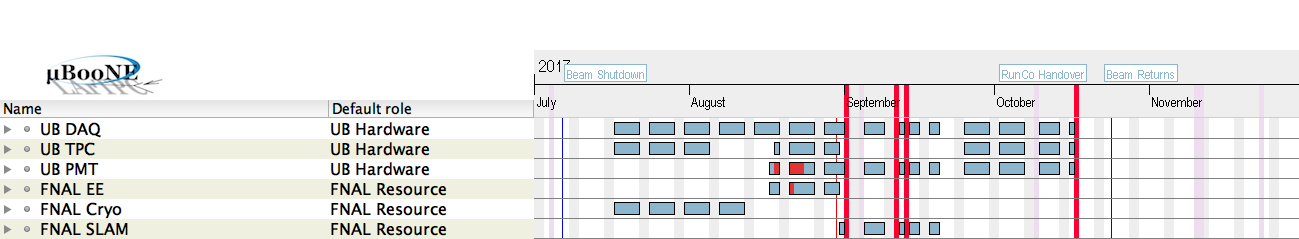
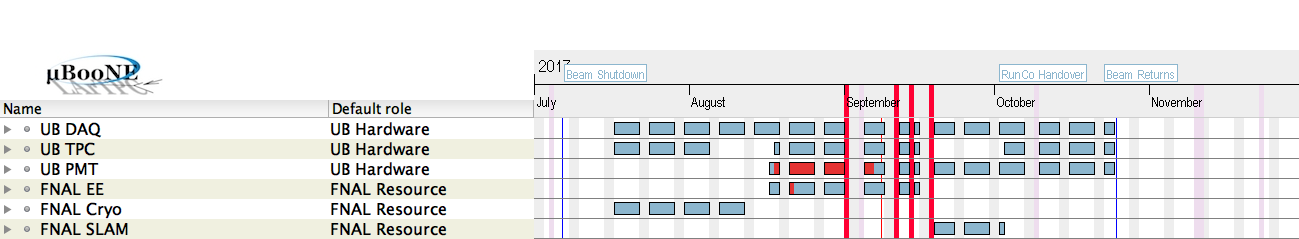
Update

Changed region(s): [[0.6159, 0.3515, 0.8622, 0.9958]]

diff --git a/index-tasks.html b/index-tasks.html
@@ -387,7 +387,7 @@ h5.header {
 </div>
 </td><td valign="top" class="cell">
 <div style="margin:0; padding:0; padding-left:0.5em">
-<div style="margin: 0; padding: 0;">8/23/17</div>
+<div style="margin: 0; padding: 0;">9/6/17</div>
 </div>
 </td><td valign="top" class="cell">UB PMT</td>
 </tr>
@@ -447,7 +447,22 @@ h5.header {
 </div>
 </td><td valign="top" class="cell">
 <div style="margin:0; padding:0; padding-left:0.5em">
-<div style="margin: 0; padding: 0;">8/23/17</div>
+<div style="margin: 0; padding: 0;">9/6/17</div>
+</div>
+</td><td valign="top" class="cell"></td>
+</tr>
+<tr>
+<td valign="top" class="cell">
+<div style="margin:0; padding:0; padding-left:0em">
+<div style="margin: 0; padding: 0;">Laser Maintanence</div>
+</div>
+</td><td valign="top" class="cell">
+<div style="margin:0; padding:0; padding-left:0.5em">
+<div style="margin: 0; padding: 0;">9/12/17</div>
+</div>
+</td><td valign="top" class="cell">
+<div style="margin:0; padding:0; padding-left:0.5em">
+<div style="margin: 0; padding: 0;">9/15/17</div>
 </div>
 </td><td valign="top" class="cell"></td>
 </tr>
@@ -462,7 +477,7 @@ h5.header {
 </div>
 </td><td valign="top" class="cell">
 <div style="margin:0; padding:0; padding-left:0.5em">
-<div style="margin: 0; padding: 0;">8/30/17</div>
+<div style="margin: 0; padding: 0;">9/15/17</div>
 </div>
 </td><td valign="top" class="cell">UB DAQ, UB TPC, UB PMT, FNAL EE</td>
 </tr>
@@ -488,11 +503,11 @@ h5.header {
 </div>
 </td><td valign="top" class="cell">
 <div style="margin:0; padding:0; padding-left:0.5em">
-<div style="margin: 0; padding: 0;">8/24/17</div>
+<div style="margin: 0; padding: 0;">9/7/17</div>
 </div>
 </td><td valign="top" class="cell">
 <div style="margin:0; padding:0; padding-left:0.5em">
-<div style="margin: 0; padding: 0;">8/30/17</div>
+<div style="margin: 0; padding: 0;">9/15/17</div>
 </div>
 </td><td valign="top" class="cell"></td>
 </tr>
@@ -503,11 +518,11 @@ h5.header {
 </div>
 </td><td valign="top" class="cell">
 <div style="margin:0; padding:0; padding-left:0.5em">
-<div style="margin: 0; padding: 0;">8/31/17</div>
+<div style="margin: 0; padding: 0;">9/19/17</div>
 </div>
 </td><td valign="top" class="cell">
 <div style="margin:0; padding:0; padding-left:0.5em">
-<div style="margin: 0; padding: 0;">9/19/17</div>
+<div style="margin: 0; padding: 0;">10/2/17</div>
 </div>
 </td><td valign="top" class="cell">UB PMT</td>
 </tr>
@@ -518,11 +533,11 @@ h5.header {
 </div>
 </td><td valign="top" class="cell">
 <div style="margin:0; padding:0; padding-left:0.5em">
-<div style="margin: 0; padding: 0;">8/31/17</div>
+<div style="margin: 0; padding: 0;">9/19/17</div>
 </div>
 </td><td valign="top" class="cell">
 <div style="margin:0; padding:0; padding-left:0.5em">
-<div style="margin: 0; padding: 0;">8/31/17</div>
+<div style="margin: 0; padding: 0;">9/19/17</div>
 </div>
 </td><td valign="top" class="cell"></td>
 </tr>
@@ -533,11 +548,11 @@ h5.header {
 </div>
 </td><td valign="top" class="cell">
 <div style="margin:0; padding:0; padding-left:0.5em">
-<div style="margin: 0; padding: 0;">9/5/17</div>
+<div style="margin: 0; padding: 0;">9/20/17</div>
 </div>
 </td><td valign="top" class="cell">
 <div style="margin:0; padding:0; padding-left:0.5em">
-<div style="margin: 0; padding: 0;">9/18/17</div>
+<div style="margin: 0; padding: 0;">9/29/17</div>
 </div>
 </td><td valign="top" class="cell"></td>
 </tr>
@@ -548,11 +563,11 @@ h5.header {
 </div>
 </td><td valign="top" class="cell">
 <div style="margin:0; padding:0; padding-left:0.5em">
-<div style="margin: 0; padding: 0;">9/19/17</div>
+<div style="margin: 0; padding: 0;">10/2/17</div>
 </div>
 </td><td valign="top" class="cell">
 <div style="margin:0; padding:0; padding-left:0.5em">
-<div style="margin: 0; padding: 0;">9/19/17</div>
+<div style="margin: 0; padding: 0;">10/2/17</div>
 </div>
 </td><td valign="top" class="cell"></td>
 </tr>
@@ -563,11 +578,11 @@ h5.header {
 </div>
 </td><td valign="top" class="cell">
 <div style="margin:0; padding:0; padding-left:0.5em">
-<div style="margin: 0; padding: 0;">8/31/17</div>
+<div style="margin: 0; padding: 0;">9/19/17</div>
 </div>
 </td><td valign="top" class="cell">
 <div style="margin:0; padding:0; padding-left:0.5em">
-<div style="margin: 0; padding: 0;">9/19/17</div>
+<div style="margin: 0; padding: 0;">10/2/17</div>
 </div>
 </td><td valign="top" class="cell">UB DAQ, FNAL SLAM</td>
 </tr>
@@ -578,11 +593,11 @@ h5.header {
 </div>
 </td><td valign="top" class="cell">
 <div style="margin:0; padding:0; padding-left:0.5em">
-<div style="margin: 0; padding: 0;">9/25/17</div>
+<div style="margin: 0; padding: 0;">10/3/17</div>
 </div>
 </td><td valign="top" class="cell">
 <div style="margin:0; padding:0; padding-left:0.5em">
-<div style="margin: 0; padding: 0;">10/16/17</div>
+<div style="margin: 0; padding: 0;">10/24/17</div>
 </div>
 </td><td valign="top" class="cell">UB DAQ, UB TPC, UB PMT</td>
 </tr>
@@ -653,7 +668,7 @@ h5.header {
 <tr>
 <td bgcolor="#6d9ec6" width="50%"><font color="#FFFFFF"><b>Ganttproject (2.8.5 Pilsen (build 2179))</b></font></td><td bgcolor="#6d9ec6" width="50%" align="right"><b><a href="http://ganttproject.biz">ganttproject.biz</a></b>
 <br>
-<b>8/30/17 - 3:18:00 PM</b></td>
+<b>9/8/17 - 10:59:12 AM</b></td>
 </tr>
 </table>
 </body>

diff --git a/microboone_summer17-tasks.html b/microboone_summer17-tasks.html
@@ -387,7 +387,7 @@ h5.header {
 </div>
 </td><td valign="top" class="cell">
 <div style="margin:0; padding:0; padding-left:0.5em">
-<div style="margin: 0; padding: 0;">8/23/17</div>
+<div style="margin: 0; padding: 0;">9/6/17</div>
 </div>
 </td><td valign="top" class="cell">UB PMT</td>
 </tr>
@@ -447,7 +447,22 @@ h5.header {
 </div>
 </td><td valign="top" class="cell">
 <div style="margin:0; padding:0; padding-left:0.5em">
-<div style="margin: 0; padding: 0;">8/23/17</div>
+<div style="margin: 0; padding: 0;">9/6/17</div>
+</div>
+</td><td valign="top" class="cell"></td>
+</tr>
+<tr>
+<td valign="top" class="cell">
+<div style="margin:0; padding:0; padding-left:0em">
+<div style="margin: 0; padding: 0;">Laser Maintanence</div>
+</div>
+</td><td valign="top" class="cell">
+<div style="margin:0; padding:0; padding-left:0.5em">
+<div style="margin: 0; padding: 0;">9/12/17</div>
+</div>
+</td><td valign="top" class="cell">
+<div style="margin:0; padding:0; padding-left:0.5em">
+<div style="margin: 0; padding: 0;">9/15/17</div>
 </div>
 </td><td valign="top" class="cell"></td>
 </tr>
@@ -462,7 +477,7 @@ h5.header {
 </div>
 </td><td valign="top" class="cell">
 <div style="margin:0; padding:0; padding-left:0.5em">
-<div style="margin: 0; padding: 0;">8/30/17</div>
+<div style="margin: 0; padding: 0;">9/15/17</div>
 </div>
 </td><td valign="top" class="cell">UB DAQ, UB TPC, UB PMT, FNAL EE</td>
 </tr>
@@ -488,11 +503,11 @@ h5.header {
 </div>
 </td><td valign="top" class="cell">
 <div style="margin:0; padding:0; padding-left:0.5em">
-<div style="margin: 0; padding: 0;">8/24/17</div>
+<div style="margin: 0; padding: 0;">9/7/17</div>
 </div>
 </td><td valign="top" class="cell">
 <div style="margin:0; padding:0; padding-left:0.5em">
-<div style="margin: 0; padding: 0;">8/30/17</div>
+<div style="margin: 0; padding: 0;">9/15/17</div>
 </div>
 </td><td valign="top" class="cell"></td>
 </tr>
@@ -503,11 +518,11 @@ h5.header {
 </div>
 </td><td valign="top" class="cell">
 <div style="margin:0; padding:0; padding-left:0.5em">
-<div style="margin: 0; padding: 0;">8/31/17</div>
+<div style="margin: 0; padding: 0;">9/19/17</div>
 </div>
 </td><td valign="top" class="cell">
 <div style="margin:0; padding:0; padding-left:0.5em">
-<div style="margin: 0; padding: 0;">9/19/17</div>
+<div style="margin: 0; padding: 0;">10/2/17</div>
 </div>
 </td><td valign="top" class="cell">UB PMT</td>
 </tr>
@@ -518,11 +533,11 @@ h5.header {
 </div>
 </td><td valign="top" class="cell">
 <div style="margin:0; padding:0; padding-left:0.5em">
-<div style="margin: 0; padding: 0;">8/31/17</div>
+<div style="margin: 0; padding: 0;">9/19/17</div>
 </div>
 </td><td valign="top" class="cell">
 <div style="margin:0; padding:0; padding-left:0.5em">
-<div style="margin: 0; padding: 0;">8/31/17</div>
+<div style="margin: 0; padding: 0;">9/19/17</div>
 </div>
 </td><td valign="top" class="cell"></td>
 </tr>
@@ -533,11 +548,11 @@ h5.header {
 </div>
 </td><td valign="top" class="cell">
 <div style="margin:0; padding:0; padding-left:0.5em">
-<div style="margin: 0; padding: 0;">9/5/17</div>
+<div style="margin: 0; padding: 0;">9/20/17</div>
 </div>
 </td><td valign="top" class="cell">
 <div style="margin:0; padding:0; padding-left:0.5em">
-<div style="margin: 0; padding: 0;">9/18/17</div>
+<div style="margin: 0; padding: 0;">9/29/17</div>
 </div>
 </td><td valign="top" class="cell"></td>
 </tr>
@@ -548,11 +563,11 @@ h5.header {
 </div>
 </td><td valign="top" class="cell">
 <div style="margin:0; padding:0; padding-left:0.5em">
-<div style="margin: 0; padding: 0;">9/19/17</div>
+<div style="margin: 0; padding: 0;">10/2/17</div>
 </div>
 </td><td valign="top" class="cell">
 <div style="margin:0; padding:0; padding-left:0.5em">
-<div style="margin: 0; padding: 0;">9/19/17</div>
+<div style="margin: 0; padding: 0;">10/2/17</div>
 </div>
 </td><td valign="top" class="cell"></td>
 </tr>
@@ -563,11 +578,11 @@ h5.header {
 </div>
 </td><td valign="top" class="cell">
 <div style="margin:0; padding:0; padding-left:0.5em">
-<div style="margin: 0; padding: 0;">8/31/17</div>
+<div style="margin: 0; padding: 0;">9/19/17</div>
 </div>
 </td><td valign="top" class="cell">
 <div style="margin:0; padding:0; padding-left:0.5em">
-<div style="margin: 0; padding: 0;">9/19/17</div>
+<div style="margin: 0; padding: 0;">10/2/17</div>
 </div>
 </td><td valign="top" class="cell">UB DAQ, FNAL SLAM</td>
 </tr>
@@ -578,11 +593,11 @@ h5.header {
 </div>
 </td><td valign="top" class="cell">
 <div style="margin:0; padding:0; padding-left:0.5em">
-<div style="margin: 0; padding: 0;">9/25/17</div>
+<div style="margin: 0; padding: 0;">10/3/17</div>
 </div>
 </td><td valign="top" class="cell">
 <div style="margin:0; padding:0; padding-left:0.5em">
-<div style="margin: 0; padding: 0;">10/16/17</div>
+<div style="margin: 0; padding: 0;">10/24/17</div>
 </div>
 </td><td valign="top" class="cell">UB DAQ, UB TPC, UB PMT</td>
 </tr>
@@ -653,7 +668,7 @@ h5.header {
 <tr>
 <td bgcolor="#6d9ec6" width="50%"><font color="#FFFFFF"><b>Ganttproject (2.8.5 Pilsen (build 2179))</b></font></td><td bgcolor="#6d9ec6" width="50%" align="right"><b><a href="http://ganttproject.biz">ganttproject.biz</a></b>
 <br>
-<b>8/30/17 - 3:18:00 PM</b></td>
+<b>9/8/17 - 10:59:12 AM</b></td>
 </tr>
 </table>
 </body>

diff --git a/index-chart.html b/index-chart.html
@@ -122,7 +122,7 @@ div.page_links {
 <tr>
 <td bgcolor="#6d9ec6" width="50%"><font color="#FFFFFF"><b>Ganttproject (2.8.5 Pilsen (build 2179))</b></font></td><td bgcolor="#6d9ec6" width="50%" align="right"><b><a href="http://ganttproject.biz">ganttproject.biz</a></b>
 <br>
-<b>8/30/17 - 3:18:00 PM</b></td>
+<b>9/8/17 - 10:59:12 AM</b></td>
 </tr>
 </table>
 </body>

diff --git a/index.html b/index.html
@@ -152,7 +152,7 @@ div.page_links {
 <tr>
 <td bgcolor="#6d9ec6" width="50%"><font color="#FFFFFF"><b>Ganttproject (2.8.5 Pilsen (build 2179))</b></font></td><td bgcolor="#6d9ec6" width="50%" align="right"><b><a href="http://ganttproject.biz">ganttproject.biz</a></b>
 <br>
-<b>8/30/17 - 3:18:00 PM</b></td>
+<b>9/8/17 - 10:59:12 AM</b></td>
 </tr>
 </table>
 </body>

diff --git a/microboone_summer17-chart.html b/microboone_summer17-chart.html
@@ -122,7 +122,7 @@ div.page_links {
 <tr>
 <td bgcolor="#6d9ec6" width="50%"><font color="#FFFFFF"><b>Ganttproject (2.8.5 Pilsen (build 2179))</b></font></td><td bgcolor="#6d9ec6" width="50%" align="right"><b><a href="http://ganttproject.biz">ganttproject.biz</a></b>
 <br>
-<b>8/30/17 - 3:18:00 PM</b></td>
+<b>9/8/17 - 10:59:12 AM</b></td>
 </tr>
 </table>
 </body>

diff --git a/microboone_summer17.html b/microboone_summer17.html
@@ -152,7 +152,7 @@ div.page_links {
 <tr>
 <td bgcolor="#6d9ec6" width="50%"><font color="#FFFFFF"><b>Ganttproject (2.8.5 Pilsen (build 2179))</b></font></td><td bgcolor="#6d9ec6" width="50%" align="right"><b><a href="http://ganttproject.biz">ganttproject.biz</a></b>
 <br>
-<b>8/30/17 - 3:18:00 PM</b></td>
+<b>9/8/17 - 10:59:12 AM</b></td>
 </tr>
 </table>
 </body>

diff --git a/index-resources.html b/index-resources.html
@@ -175,7 +175,7 @@ h5.header {
 <tr>
 <td bgcolor="#6d9ec6" width="50%"><font color="#FFFFFF"><b>Ganttproject (2.8.5 Pilsen (build 2179))</b></font></td><td bgcolor="#6d9ec6" width="50%" align="right"><b><a href="http://ganttproject.biz">ganttproject.biz</a></b>
 <br>
-<b>8/30/17 - 3:18:01 PM</b></td>
+<b>9/8/17 - 10:59:12 AM</b></td>
 </tr>
 </table>
 </body>

diff --git a/microboone_summer17-resources.html b/microboone_summer17-resources.html
@@ -175,7 +175,7 @@ h5.header {
 <tr>
 <td bgcolor="#6d9ec6" width="50%"><font color="#FFFFFF"><b>Ganttproject (2.8.5 Pilsen (build 2179))</b></font></td><td bgcolor="#6d9ec6" width="50%" align="right"><b><a href="http://ganttproject.biz">ganttproject.biz</a></b>
 <br>
-<b>8/30/17 - 3:18:01 PM</b></td>
+<b>9/8/17 - 10:59:12 AM</b></td>
 </tr>
 </table>
 </body>
